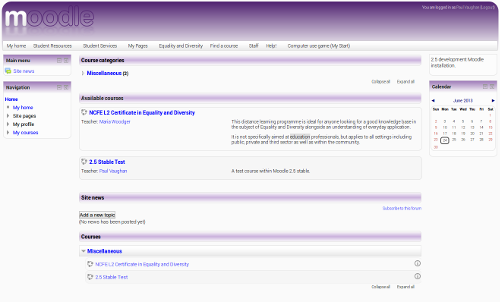
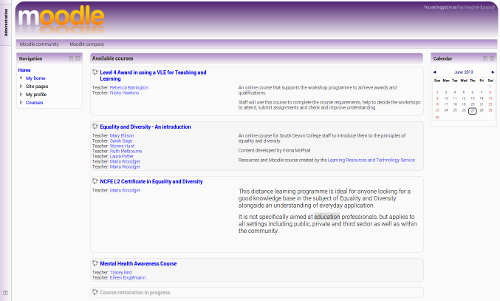
Changes to make the SDC 2013 theme increasingly IE friendly.

diff --git a/theme/sdc2013/style/css3.css b/theme/sdc2013/style/css3.css
@@ -254,8 +254,16 @@ table.minicalendar {
           border-radius: 0.2em;
 }
 
-/* Additional CSS3 fun */
+/* SDC 2013 specific selectors. */
 
+#page-header {
+  background-image:   url([[pix:theme|hgradient_fpheader]]);
+  background-repeat:  repeat-x;
+  background-color:   #ad89c6;
+}
+
+/* Additional CSS3 fun */
+/*
 #page-header {
   background-image:         linear-gradient(top, #4f2170 0%, #fafafa 100%);
   background-image:      -o-linear-gradient(top, #4f2170 0%, #fafafa 100%);
@@ -272,7 +280,6 @@ table.minicalendar {
   );
 }
 
-/* Purple-white gradient fill. */
 .block .header,
 .generaltable thead th {
   background-image:         linear-gradient(top, #9d79b7, #fafafa);
@@ -290,8 +297,6 @@ table.minicalendar {
   );
 }
 
-
-/* 'Band' of colour for minor headers. */
 .generaltable tbody th,
 #frontpage-course-list .header,
 #frontpage-category-names .header,
@@ -313,13 +318,15 @@ table.minicalendar {
     color-stop(1, #fafafa)
   );
 }
+*/
 
 .block .header h2,
 #frontpage-course-list h2.header,
 .header div.title,
 .generaltable thead th,
-.generaltable tbody th {
-  color: #222;
+.generaltable tbody th,
+.dockeditempanel_hd h2 {
+  color: #222 !important;
   text-shadow: 1px 1px 3px rgba(255, 255, 255, .8);
 }
 
@@ -342,6 +349,8 @@ table.minicalendar {
   text-shadow: 1px 1px 3px rgba(0, 0, 0, .5);
 }
 
+/*
 .course-content .single-section .section-navigation {
   margin-bottom: .5em;
 }
+*/

diff --git a/theme/sdc2013/version.php b/theme/sdc2013/version.php
@@ -24,7 +24,7 @@
 
 defined('MOODLE_INTERNAL') || die;
 
-$plugin->version   = 2013062401;
+$plugin->version   = 2013062700;
 $plugin->requires  = 2013050100;
 $plugin->component = 'theme_sdc2013';
 $plugin->dependencies = array(
